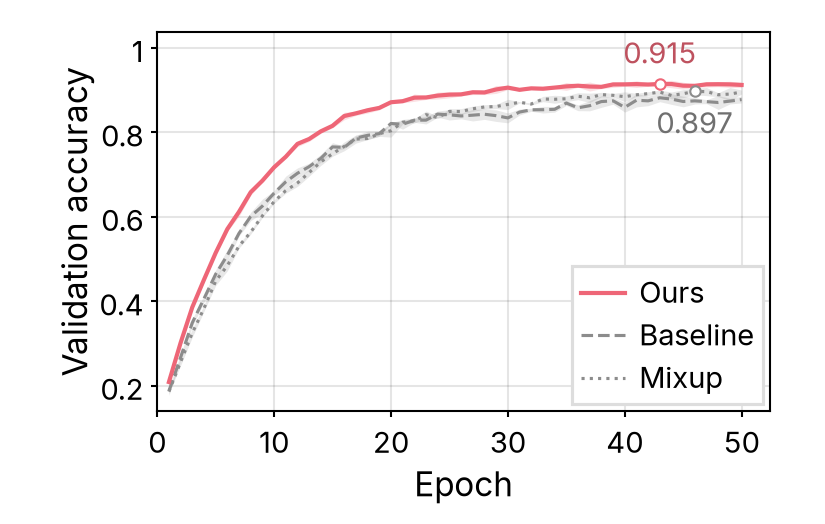
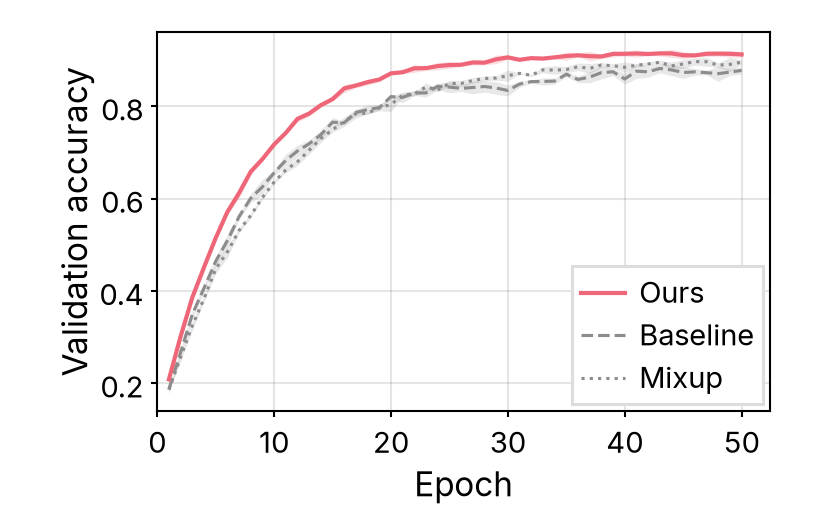
Learning curve: no value marks
Claude-Session: https://claude.ai/code/session_01Vy1dAkyLNTuzaw6HFfW3zb

Changed region(s): [[0.1212, 0.0611, 0.9091, 0.7634], [0.1515, 0.0611, 0.1818, 0.1221]]

diff --git a/docs/index.html b/docs/index.html
@@ -166,8 +166,8 @@ footer .wrap { display:flex; gap:18px; flex-wrap:wrap; justify-content:space-bet
     <button type="button" data-v="with" aria-pressed="true">With the skill</button>
   </div>
   <div class="panes">
-    <div class="pane without"><div class="tag">Without the skill</div><div class="paper two"><div class="col page"><span class="guide text" style="left:0.000%"></span><span class="guide text" style="left:48.148%"></span><span class="guide text" style="left:51.852%"></span><span class="guide text" style="left:100.000%"></span><span class="guide panel" style="left:7.763%"></span><span class="guide panel" style="left:45.452%"></span><span class="guide panel" style="left:59.615%"></span><span class="guide panel" style="left:97.304%"></span><p class="lede">We report results averaged over five seeds; every figure is printed at the size shown here, next to this paragraph set in ten-point type.</p><div class="fullfig"><div class="row"><img src="figures/without/icml-accuracy-and-loss.svg?v=e36932e939" alt="icml-accuracy-and-loss" loading="lazy" style="width:100.000%"></div><p class="cap"><b>Figure 1.</b> Validation accuracy and training loss over 60 epochs on CIFAR-10 and CIFAR-100.</p></div><div class="cols"><div class="pcol"><div class="row"><img src="figures/without/icml-learning-curve.svg?v=d394b0cf88" alt="learning-curve" loading="lazy" style="width:100.000%"></div><p class="cap"><b>Figure 2.</b> Validation accuracy on CIFAR-100 over training. Lines show the mean and shaded bands ±1 std over 5 seeds; the circle marks the best mean accuracy of ours.</p><div class="row"><img src="figures/without/icml-grouped-bar-chart.svg?v=86876ff066" alt="grouped-bar-chart" loading="lazy" style="width:100.000%"></div><p class="cap"><b>Figure 3.</b> Accuracy of four training methods on three benchmarks. Ours scores highest on all three, ahead of DPO by 0.036 on GSM8K, 0.043 on MATH and 0.029 on HumanEval.</p><p>We report results averaged over five seeds; every figure is printed at the size shown here, next to this paragraph set in ten-point type.</p><p>We study how the training recipe changes the final model and report results on standard benchmarks. Unless stated otherwise, numbers are averaged over five seeds, and every figure is printed at the size shown here, next to this paragraph set in ten-point type.</p><p>We study how the training recipe changes the final model and report results on standard benchmarks. Unless stated otherwise, numbers are averaged over five seeds, and every figure is printed at the size shown here, next to this paragraph set in ten-point type.</p><p>We study how the training recipe changes the final model and report results on standard benchmarks. Unless stated otherwise, numbers are averaged over five seeds, and every figure is printed at the size shown here, next to this paragraph set in ten-point type.</p><p>We study how the training recipe changes the final model and report results on standard benchmarks. Unless stated otherwise, numbers are averaged over five seeds, and every figure is printed at the size shown here, next to this paragraph set in ten-point type.</p><p>We study how the training recipe changes the final model and report results on standard benchmarks. Unless stated otherwise, numbers are averaged over five seeds, and every figure is printed at the size shown here, next to this paragraph set in ten-point type.</p><p>We study how the training recipe changes the final model and report results on standard benchmarks. Unless stated otherwise, numbers are averaged over five seeds, and every figure is printed at the size shown here, next to this paragraph set in ten-point type.</p><p>We study how the training recipe changes the final model and report results on standard benchmarks. Unless stated otherwise, numbers are averaged over five seeds, and every figure is printed at the size shown here, next to this paragraph set in ten-point type.</p><p>We study how the training recipe changes the final model and report results on standard benchmarks. Unless stated otherwise, numbers are averaged over five seeds, and every figure is printed at the size shown here, next to this paragraph set in ten-point type.</p></div><div class="pcol"><div class="row"><img src="figures/without/icml-scaling-law.svg?v=8b40aafd50" alt="scaling-law" loading="lazy" style="width:100.000%"></div><p class="cap"><b>Figure 4.</b> Test loss of Transformer language models versus non-embedding parameters. Both axes are logarithmic; the dashed line is the fitted power law L = (N / 8.8×10¹³)^−0.076.</p><div class="row"><img src="figures/without/icml-confusion-matrix.svg?v=cb51ee5897" alt="confusion-matrix" loading="lazy" style="width:100.000%"></div><p class="cap"><b>Figure 5.</b> Confusion matrix of a Random Forest predicting Yelp review star ratings (1 = worst, 5 = best).</p><p>We report results averaged over five seeds; every figure is printed at the size shown here, next to this paragraph set in ten-point type.</p><p>We study how the training recipe changes the final model and report results on standard benchmarks. Unless stated otherwise, numbers are averaged over five seeds, and every figure is printed at the size shown here, next to this paragraph set in ten-point type.</p><p>We study how the training recipe changes the final model and report results on standard benchmarks. Unless stated otherwise, numbers are averaged over five seeds, and every figure is printed at the size shown here, next to this paragraph set in ten-point type.</p><p>We study how the training recipe changes the final model and report results on standard benchmarks. Unless stated otherwise, numbers are averaged over five seeds, and every figure is printed at the size shown here, next to this paragraph set in ten-point type.</p><p>We study how the training recipe changes the final model and report results on standard benchmarks. Unless stated otherwise, numbers are averaged over five seeds, and every figure is printed at the size shown here, next to this paragraph set in ten-point type.</p><p>We study how the training recipe changes the final model and report results on standard benchmarks. Unless stated otherwise, numbers are averaged over five seeds, and every figure is printed at the size shown here, next to this paragraph set in ten-point type.</p><p>We study how the training recipe changes the final model and report results on standard benchmarks. Unless stated otherwise, numbers are averaged over five seeds, and every figure is printed at the size shown here, next to this paragraph set in ten-point type.</p><p>We study how the training recipe changes the final model and report results on standard benchmarks. Unless stated otherwise, numbers are averaged over five seeds, and every figure is printed at the size shown here, next to this paragraph set in ten-point type.</p><p>We study how the training recipe changes the final model and report results on standard benchmarks. Unless stated otherwise, numbers are averaged over five seeds, and every figure is printed at the size shown here, next to this paragraph set in ten-point type.</p></div></div></div></div></div>
-    <div class="pane with"><div class="tag">With the skill</div><div class="paper two"><div class="col page"><span class="guide text" style="left:0.000%"></span><span class="guide text" style="left:48.148%"></span><span class="guide text" style="left:51.852%"></span><span class="guide text" style="left:100.000%"></span><span class="guide panel" style="left:7.763%"></span><span class="guide panel" style="left:45.452%"></span><span class="guide panel" style="left:59.615%"></span><span class="guide panel" style="left:97.304%"></span><p class="lede">We report results averaged over five seeds; every figure is printed at the size shown here, next to this paragraph set in ten-point type.</p><div class="fullfig"><div class="row"><img src="figures/with/icml-accuracy-and-loss.svg?v=0b3e3e3c6a" alt="icml-accuracy-and-loss" loading="lazy" style="width:100.000%"></div><p class="cap"><b>Figure 1.</b> Validation accuracy and training loss over 60 epochs on CIFAR-10 and CIFAR-100.</p></div><div class="cols"><div class="pcol"><div class="row"><img src="figures/with/icml-learning-curve.svg?v=ab0b31266d" alt="learning-curve" loading="lazy" style="width:100.000%"></div><p class="cap"><b>Figure 2.</b> Validation accuracy on CIFAR-100 over training. Lines show the mean and shaded bands ±1 std over 5 seeds; the circle marks the best mean accuracy of ours.</p><div class="row"><img src="figures/with/icml-grouped-bar-chart.svg?v=5ea5a7a498" alt="grouped-bar-chart" loading="lazy" style="width:100.000%"></div><p class="cap"><b>Figure 3.</b> Accuracy of four training methods on three benchmarks. Ours scores highest on all three, ahead of DPO by 0.036 on GSM8K, 0.043 on MATH and 0.029 on HumanEval.</p><p>We report results averaged over five seeds; every figure is printed at the size shown here, next to this paragraph set in ten-point type.</p><p>We study how the training recipe changes the final model and report results on standard benchmarks. Unless stated otherwise, numbers are averaged over five seeds, and every figure is printed at the size shown here, next to this paragraph set in ten-point type.</p><p>We study how the training recipe changes the final model and report results on standard benchmarks. Unless stated otherwise, numbers are averaged over five seeds, and every figure is printed at the size shown here, next to this paragraph set in ten-point type.</p><p>We study how the training recipe changes the final model and report results on standard benchmarks. Unless stated otherwise, numbers are averaged over five seeds, and every figure is printed at the size shown here, next to this paragraph set in ten-point type.</p><p>We study how the training recipe changes the final model and report results on standard benchmarks. Unless stated otherwise, numbers are averaged over five seeds, and every figure is printed at the size shown here, next to this paragraph set in ten-point type.</p><p>We study how the training recipe changes the final model and report results on standard benchmarks. Unless stated otherwise, numbers are averaged over five seeds, and every figure is printed at the size shown here, next to this paragraph set in ten-point type.</p><p>We study how the training recipe changes the final model and report results on standard benchmarks. Unless stated otherwise, numbers are averaged over five seeds, and every figure is printed at the size shown here, next to this paragraph set in ten-point type.</p><p>We study how the training recipe changes the final model and report results on standard benchmarks. Unless stated otherwise, numbers are averaged over five seeds, and every figure is printed at the size shown here, next to this paragraph set in ten-point type.</p><p>We study how the training recipe changes the final model and report results on standard benchmarks. Unless stated otherwise, numbers are averaged over five seeds, and every figure is printed at the size shown here, next to this paragraph set in ten-point type.</p></div><div class="pcol"><div class="row"><img src="figures/with/icml-scaling-law.svg?v=c294377fb6" alt="scaling-law" loading="lazy" style="width:100.000%"></div><p class="cap"><b>Figure 4.</b> Test loss of Transformer language models versus non-embedding parameters. Both axes are logarithmic; the dashed line is the fitted power law L = (N / 8.8×10¹³)^−0.076.</p><div class="row"><img src="figures/with/icml-confusion-matrix.svg?v=ed5e349769" alt="confusion-matrix" loading="lazy" style="width:100.000%"></div><p class="cap"><b>Figure 5.</b> Confusion matrix of a Random Forest predicting Yelp review star ratings (1 = worst, 5 = best).</p><p>We report results averaged over five seeds; every figure is printed at the size shown here, next to this paragraph set in ten-point type.</p><p>We study how the training recipe changes the final model and report results on standard benchmarks. Unless stated otherwise, numbers are averaged over five seeds, and every figure is printed at the size shown here, next to this paragraph set in ten-point type.</p><p>We study how the training recipe changes the final model and report results on standard benchmarks. Unless stated otherwise, numbers are averaged over five seeds, and every figure is printed at the size shown here, next to this paragraph set in ten-point type.</p><p>We study how the training recipe changes the final model and report results on standard benchmarks. Unless stated otherwise, numbers are averaged over five seeds, and every figure is printed at the size shown here, next to this paragraph set in ten-point type.</p><p>We study how the training recipe changes the final model and report results on standard benchmarks. Unless stated otherwise, numbers are averaged over five seeds, and every figure is printed at the size shown here, next to this paragraph set in ten-point type.</p><p>We study how the training recipe changes the final model and report results on standard benchmarks. Unless stated otherwise, numbers are averaged over five seeds, and every figure is printed at the size shown here, next to this paragraph set in ten-point type.</p><p>We study how the training recipe changes the final model and report results on standard benchmarks. Unless stated otherwise, numbers are averaged over five seeds, and every figure is printed at the size shown here, next to this paragraph set in ten-point type.</p><p>We study how the training recipe changes the final model and report results on standard benchmarks. Unless stated otherwise, numbers are averaged over five seeds, and every figure is printed at the size shown here, next to this paragraph set in ten-point type.</p><p>We study how the training recipe changes the final model and report results on standard benchmarks. Unless stated otherwise, numbers are averaged over five seeds, and every figure is printed at the size shown here, next to this paragraph set in ten-point type.</p></div></div></div></div></div>
+    <div class="pane without"><div class="tag">Without the skill</div><div class="paper two"><div class="col page"><span class="guide text" style="left:0.000%"></span><span class="guide text" style="left:48.148%"></span><span class="guide text" style="left:51.852%"></span><span class="guide text" style="left:100.000%"></span><span class="guide panel" style="left:7.763%"></span><span class="guide panel" style="left:45.452%"></span><span class="guide panel" style="left:59.615%"></span><span class="guide panel" style="left:97.304%"></span><p class="lede">We report results averaged over five seeds; every figure is printed at the size shown here, next to this paragraph set in ten-point type.</p><div class="fullfig"><div class="row"><img src="figures/without/icml-accuracy-and-loss.svg?v=e36932e939" alt="icml-accuracy-and-loss" loading="lazy" style="width:100.000%"></div><p class="cap"><b>Figure 1.</b> Validation accuracy and training loss over 60 epochs on CIFAR-10 and CIFAR-100.</p></div><div class="cols"><div class="pcol"><div class="row"><img src="figures/without/icml-learning-curve.svg?v=d394b0cf88" alt="learning-curve" loading="lazy" style="width:100.000%"></div><p class="cap"><b>Figure 2.</b> Validation accuracy on CIFAR-100 over training. Lines show the mean and shaded bands ±1 std over 5 seeds.</p><div class="row"><img src="figures/without/icml-grouped-bar-chart.svg?v=86876ff066" alt="grouped-bar-chart" loading="lazy" style="width:100.000%"></div><p class="cap"><b>Figure 3.</b> Accuracy of four training methods on three benchmarks. Ours scores highest on all three, ahead of DPO by 0.036 on GSM8K, 0.043 on MATH and 0.029 on HumanEval.</p><p>We report results averaged over five seeds; every figure is printed at the size shown here, next to this paragraph set in ten-point type.</p><p>We study how the training recipe changes the final model and report results on standard benchmarks. Unless stated otherwise, numbers are averaged over five seeds, and every figure is printed at the size shown here, next to this paragraph set in ten-point type.</p><p>We study how the training recipe changes the final model and report results on standard benchmarks. Unless stated otherwise, numbers are averaged over five seeds, and every figure is printed at the size shown here, next to this paragraph set in ten-point type.</p><p>We study how the training recipe changes the final model and report results on standard benchmarks. Unless stated otherwise, numbers are averaged over five seeds, and every figure is printed at the size shown here, next to this paragraph set in ten-point type.</p><p>We study how the training recipe changes the final model and report results on standard benchmarks. Unless stated otherwise, numbers are averaged over five seeds, and every figure is printed at the size shown here, next to this paragraph set in ten-point type.</p><p>We study how the training recipe changes the final model and report results on standard benchmarks. Unless stated otherwise, numbers are averaged over five seeds, and every figure is printed at the size shown here, next to this paragraph set in ten-point type.</p><p>We study how the training recipe changes the final model and report results on standard benchmarks. Unless stated otherwise, numbers are averaged over five seeds, and every figure is printed at the size shown here, next to this paragraph set in ten-point type.</p><p>We study how the training recipe changes the final model and report results on standard benchmarks. Unless stated otherwise, numbers are averaged over five seeds, and every figure is printed at the size shown here, next to this paragraph set in ten-point type.</p><p>We study how the training recipe changes the final model and report results on standard benchmarks. Unless stated otherwise, numbers are averaged over five seeds, and every figure is printed at the size shown here, next to this paragraph set in ten-point type.</p></div><div class="pcol"><div class="row"><img src="figures/without/icml-scaling-law.svg?v=8b40aafd50" alt="scaling-law" loading="lazy" style="width:100.000%"></div><p class="cap"><b>Figure 4.</b> Test loss of Transformer language models versus non-embedding parameters. Both axes are logarithmic; the dashed line is the fitted power law L = (N / 8.8×10¹³)^−0.076.</p><div class="row"><img src="figures/without/icml-confusion-matrix.svg?v=cb51ee5897" alt="confusion-matrix" loading="lazy" style="width:100.000%"></div><p class="cap"><b>Figure 5.</b> Confusion matrix of a Random Forest predicting Yelp review star ratings (1 = worst, 5 = best).</p><p>We report results averaged over five seeds; every figure is printed at the size shown here, next to this paragraph set in ten-point type.</p><p>We study how the training recipe changes the final model and report results on standard benchmarks. Unless stated otherwise, numbers are averaged over five seeds, and every figure is printed at the size shown here, next to this paragraph set in ten-point type.</p><p>We study how the training recipe changes the final model and report results on standard benchmarks. Unless stated otherwise, numbers are averaged over five seeds, and every figure is printed at the size shown here, next to this paragraph set in ten-point type.</p><p>We study how the training recipe changes the final model and report results on standard benchmarks. Unless stated otherwise, numbers are averaged over five seeds, and every figure is printed at the size shown here, next to this paragraph set in ten-point type.</p><p>We study how the training recipe changes the final model and report results on standard benchmarks. Unless stated otherwise, numbers are averaged over five seeds, and every figure is printed at the size shown here, next to this paragraph set in ten-point type.</p><p>We study how the training recipe changes the final model and report results on standard benchmarks. Unless stated otherwise, numbers are averaged over five seeds, and every figure is printed at the size shown here, next to this paragraph set in ten-point type.</p><p>We study how the training recipe changes the final model and report results on standard benchmarks. Unless stated otherwise, numbers are averaged over five seeds, and every figure is printed at the size shown here, next to this paragraph set in ten-point type.</p><p>We study how the training recipe changes the final model and report results on standard benchmarks. Unless stated otherwise, numbers are averaged over five seeds, and every figure is printed at the size shown here, next to this paragraph set in ten-point type.</p><p>We study how the training recipe changes the final model and report results on standard benchmarks. Unless stated otherwise, numbers are averaged over five seeds, and every figure is printed at the size shown here, next to this paragraph set in ten-point type.</p></div></div></div></div></div>
+    <div class="pane with"><div class="tag">With the skill</div><div class="paper two"><div class="col page"><span class="guide text" style="left:0.000%"></span><span class="guide text" style="left:48.148%"></span><span class="guide text" style="left:51.852%"></span><span class="guide text" style="left:100.000%"></span><span class="guide panel" style="left:7.763%"></span><span class="guide panel" style="left:45.452%"></span><span class="guide panel" style="left:59.615%"></span><span class="guide panel" style="left:97.304%"></span><p class="lede">We report results averaged over five seeds; every figure is printed at the size shown here, next to this paragraph set in ten-point type.</p><div class="fullfig"><div class="row"><img src="figures/with/icml-accuracy-and-loss.svg?v=0b3e3e3c6a" alt="icml-accuracy-and-loss" loading="lazy" style="width:100.000%"></div><p class="cap"><b>Figure 1.</b> Validation accuracy and training loss over 60 epochs on CIFAR-10 and CIFAR-100.</p></div><div class="cols"><div class="pcol"><div class="row"><img src="figures/with/icml-learning-curve.svg?v=2281f44695" alt="learning-curve" loading="lazy" style="width:100.000%"></div><p class="cap"><b>Figure 2.</b> Validation accuracy on CIFAR-100 over training. Lines show the mean and shaded bands ±1 std over 5 seeds.</p><div class="row"><img src="figures/with/icml-grouped-bar-chart.svg?v=5ea5a7a498" alt="grouped-bar-chart" loading="lazy" style="width:100.000%"></div><p class="cap"><b>Figure 3.</b> Accuracy of four training methods on three benchmarks. Ours scores highest on all three, ahead of DPO by 0.036 on GSM8K, 0.043 on MATH and 0.029 on HumanEval.</p><p>We report results averaged over five seeds; every figure is printed at the size shown here, next to this paragraph set in ten-point type.</p><p>We study how the training recipe changes the final model and report results on standard benchmarks. Unless stated otherwise, numbers are averaged over five seeds, and every figure is printed at the size shown here, next to this paragraph set in ten-point type.</p><p>We study how the training recipe changes the final model and report results on standard benchmarks. Unless stated otherwise, numbers are averaged over five seeds, and every figure is printed at the size shown here, next to this paragraph set in ten-point type.</p><p>We study how the training recipe changes the final model and report results on standard benchmarks. Unless stated otherwise, numbers are averaged over five seeds, and every figure is printed at the size shown here, next to this paragraph set in ten-point type.</p><p>We study how the training recipe changes the final model and report results on standard benchmarks. Unless stated otherwise, numbers are averaged over five seeds, and every figure is printed at the size shown here, next to this paragraph set in ten-point type.</p><p>We study how the training recipe changes the final model and report results on standard benchmarks. Unless stated otherwise, numbers are averaged over five seeds, and every figure is printed at the size shown here, next to this paragraph set in ten-point type.</p><p>We study how the training recipe changes the final model and report results on standard benchmarks. Unless stated otherwise, numbers are averaged over five seeds, and every figure is printed at the size shown here, next to this paragraph set in ten-point type.</p><p>We study how the training recipe changes the final model and report results on standard benchmarks. Unless stated otherwise, numbers are averaged over five seeds, and every figure is printed at the size shown here, next to this paragraph set in ten-point type.</p><p>We study how the training recipe changes the final model and report results on standard benchmarks. Unless stated otherwise, numbers are averaged over five seeds, and every figure is printed at the size shown here, next to this paragraph set in ten-point type.</p></div><div class="pcol"><div class="row"><img src="figures/with/icml-scaling-law.svg?v=c294377fb6" alt="scaling-law" loading="lazy" style="width:100.000%"></div><p class="cap"><b>Figure 4.</b> Test loss of Transformer language models versus non-embedding parameters. Both axes are logarithmic; the dashed line is the fitted power law L = (N / 8.8×10¹³)^−0.076.</p><div class="row"><img src="figures/with/icml-confusion-matrix.svg?v=ed5e349769" alt="confusion-matrix" loading="lazy" style="width:100.000%"></div><p class="cap"><b>Figure 5.</b> Confusion matrix of a Random Forest predicting Yelp review star ratings (1 = worst, 5 = best).</p><p>We report results averaged over five seeds; every figure is printed at the size shown here, next to this paragraph set in ten-point type.</p><p>We study how the training recipe changes the final model and report results on standard benchmarks. Unless stated otherwise, numbers are averaged over five seeds, and every figure is printed at the size shown here, next to this paragraph set in ten-point type.</p><p>We study how the training recipe changes the final model and report results on standard benchmarks. Unless stated otherwise, numbers are averaged over five seeds, and every figure is printed at the size shown here, next to this paragraph set in ten-point type.</p><p>We study how the training recipe changes the final model and report results on standard benchmarks. Unless stated otherwise, numbers are averaged over five seeds, and every figure is printed at the size shown here, next to this paragraph set in ten-point type.</p><p>We study how the training recipe changes the final model and report results on standard benchmarks. Unless stated otherwise, numbers are averaged over five seeds, and every figure is printed at the size shown here, next to this paragraph set in ten-point type.</p><p>We study how the training recipe changes the final model and report results on standard benchmarks. Unless stated otherwise, numbers are averaged over five seeds, and every figure is printed at the size shown here, next to this paragraph set in ten-point type.</p><p>We study how the training recipe changes the final model and report results on standard benchmarks. Unless stated otherwise, numbers are averaged over five seeds, and every figure is printed at the size shown here, next to this paragraph set in ten-point type.</p><p>We study how the training recipe changes the final model and report results on standard benchmarks. Unless stated otherwise, numbers are averaged over five seeds, and every figure is printed at the size shown here, next to this paragraph set in ten-point type.</p><p>We study how the training recipe changes the final model and report results on standard benchmarks. Unless stated otherwise, numbers are averaged over five seeds, and every figure is printed at the size shown here, next to this paragraph set in ten-point type.</p></div></div></div></div></div>
   </div>
 </div>
 </div></section>
@@ -183,7 +183,7 @@ footer .wrap { display:flex; gap:18px; flex-wrap:wrap; justify-content:space-bet
   </div>
   <div class="panes">
     <div class="pane without"><div class="tag">Without the skill</div><div class="col block"><div class="row"><img src="figures/without/grouped-bar-chart.svg?v=189ec6d2dc" alt="grouped-bar-chart" loading="lazy" style="width:50.000%"><img src="figures/without/learning-curve.svg?v=2f1a9aa5ef" alt="learning-curve" loading="lazy" style="width:50.000%"></div></div></div>
-    <div class="pane with"><div class="tag">With the skill</div><div class="col block"><div class="row"><img src="figures/with/grouped-bar-chart.svg?v=142bd533d1" alt="grouped-bar-chart" loading="lazy" style="width:50.000%"><img src="figures/with/learning-curve.svg?v=53f44cf34f" alt="learning-curve" loading="lazy" style="width:50.000%"></div></div></div>
+    <div class="pane with"><div class="tag">With the skill</div><div class="col block"><div class="row"><img src="figures/with/grouped-bar-chart.svg?v=142bd533d1" alt="grouped-bar-chart" loading="lazy" style="width:50.000%"><img src="figures/with/learning-curve.svg?v=62f26aa796" alt="learning-curve" loading="lazy" style="width:50.000%"></div></div></div>
   </div>
 </div>
 </div></section>
@@ -205,7 +205,7 @@ footer .wrap { display:flex; gap:18px; flex-wrap:wrap; justify-content:space-bet
   </div>
   <div class="frame">
     <img class="without" src="figures/without/learning-curve.svg?v=2f1a9aa5ef" alt="Line chart, without the skill" loading="lazy">
-    <img class="with" src="figures/with/learning-curve.svg?v=53f44cf34f" alt="Line chart, with the skill" loading="lazy">
+    <img class="with" src="figures/with/learning-curve.svg?v=62f26aa796" alt="Line chart, with the skill" loading="lazy">
   </div>
 </figure>
 <figure class="ex" data-show="with">

diff --git a/examples/chart-types/scripts/learning-curve.py b/examples/chart-types/scripts/learning-curve.py
@@ -1,4 +1,4 @@
-"""Validation accuracy on CIFAR-100 over training epochs. Lines show the mean over 5 seeds and shaded bands ±1 std; thin horizontal lines mark each marked method's best mean accuracy. Ours peaks at 0.915, 0.018 above Mixup (0.897) and above Baseline (0.882)."""
+"""Validation accuracy on CIFAR-100 over training epochs. Lines show the mean over 5 seeds and shaded bands ±1 std; Ours peaks at 0.915, 0.018 above Mixup (0.897) and above Baseline (0.882)."""
 
 import json
 import sys
@@ -8,7 +8,7 @@ import numpy as np
 
 sys.path.insert(0, "../../../skills/academic-figure/assets")
 import paper  # registers the bundled Inter font
-from paper import fit_height, mark_value
+from paper import fit_height
 
 colors = paper.use_design("../../../skills/academic-figure/assets/DESIGN.md")
 
@@ -43,8 +43,6 @@ for name in ["Baseline", "Mixup", "Ours"]:
     (handles[name],) = ax.plot(epochs, mean[name], label=name, **styles[name])
 
 # the three best values lie within 0.04 of each other: ours and its closest competitor are marked, Baseline's is in the caption
-mark_value(ax, best_epoch["Ours"], best["Ours"], f"{best['Ours']:#.3g}", styles["Ours"]["color"])
-mark_value(ax, best_epoch["Mixup"], best["Mixup"], f"{best['Mixup']:#.3g}", styles["Mixup"]["color"], below=True)
 
 ax.set_xlabel("Epoch")
 ax.set_ylabel("Validation accuracy")
